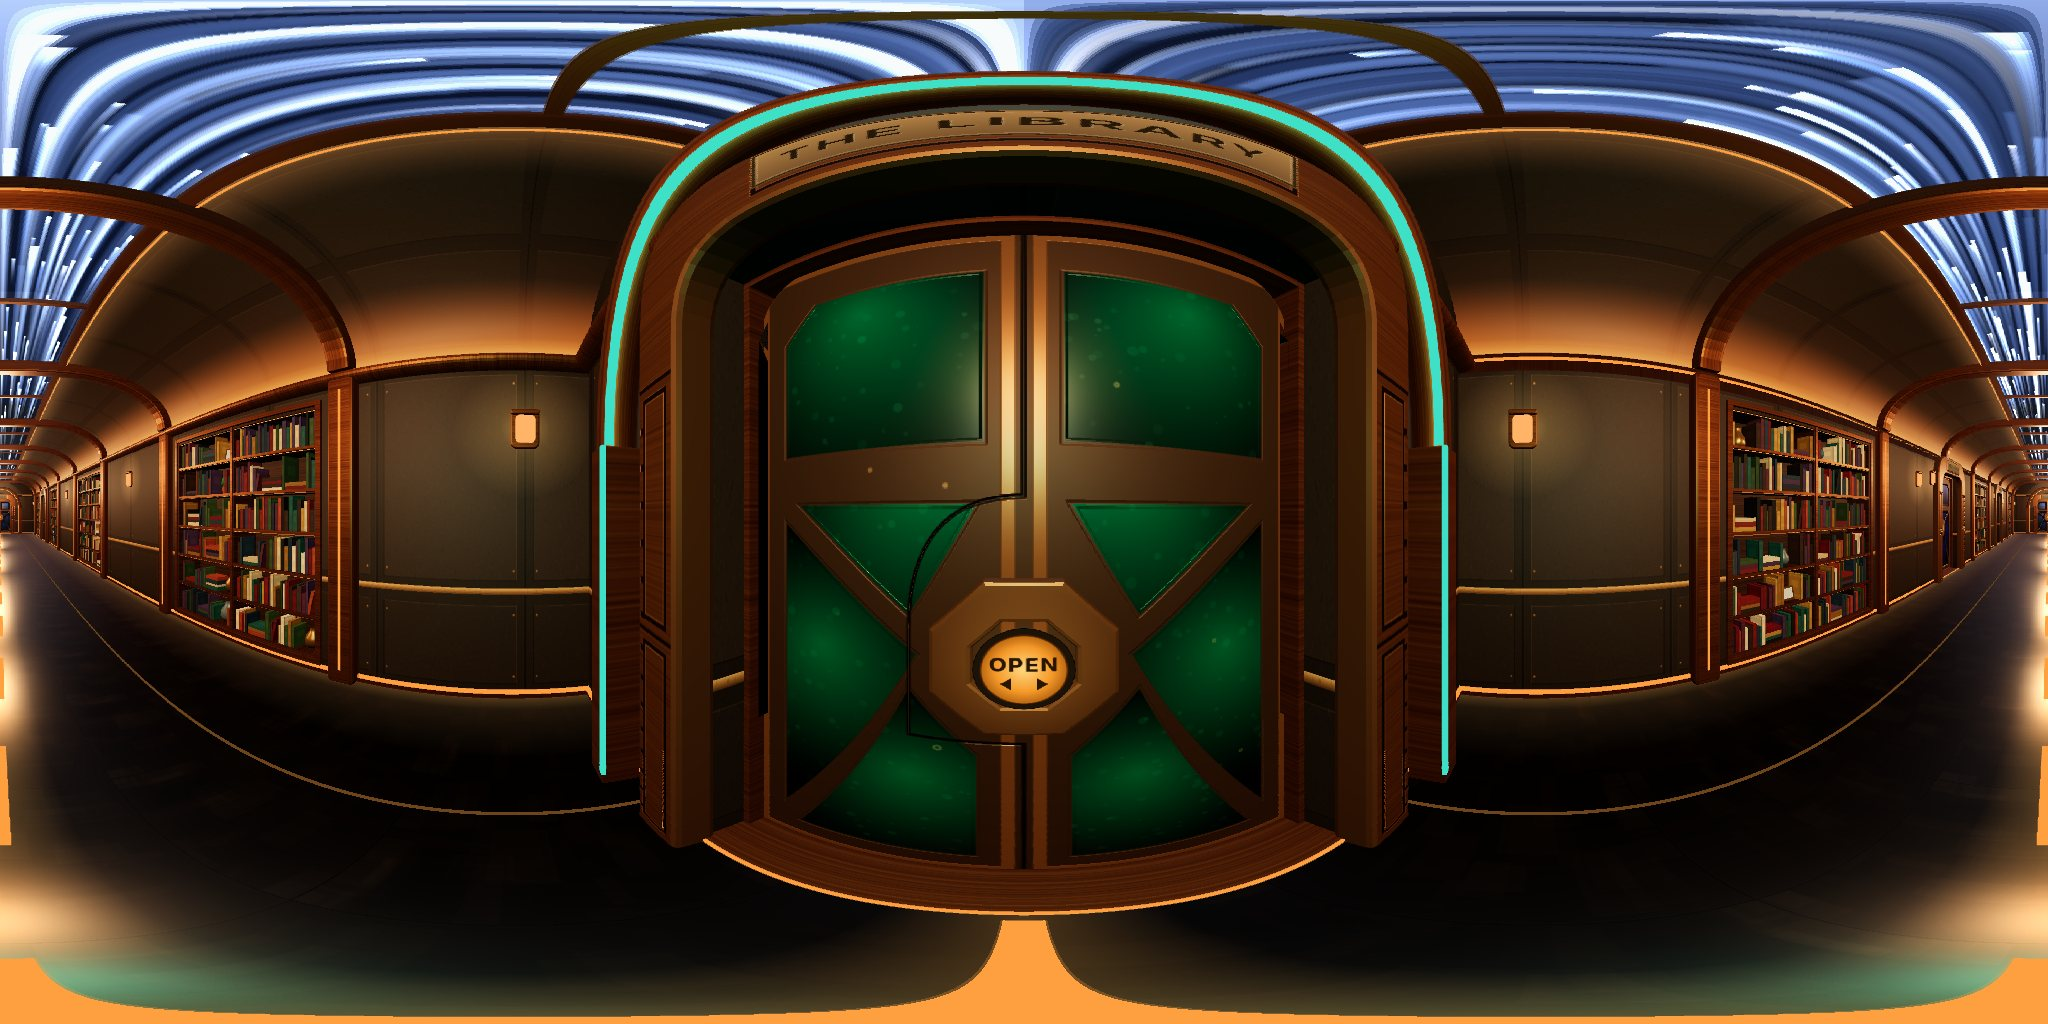
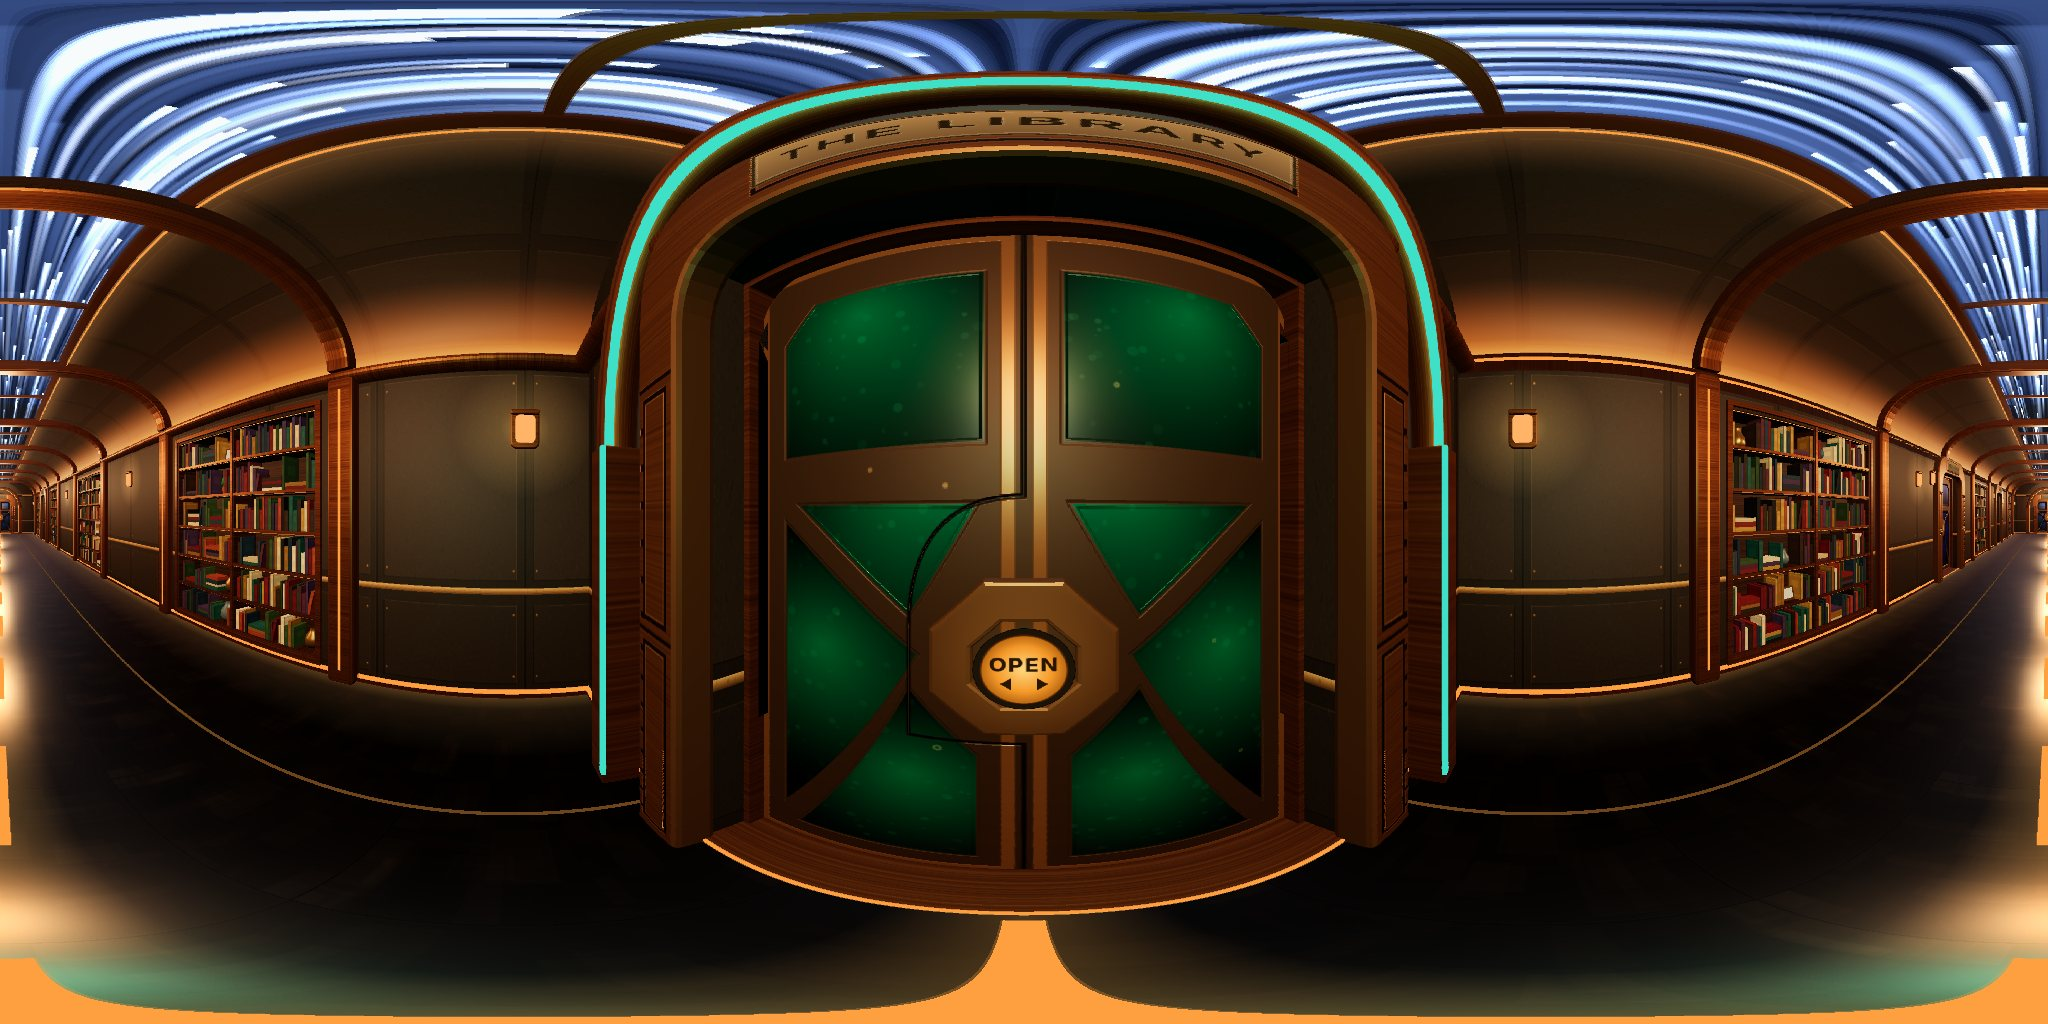
Library walls restyled: walnut panels, bronze ribs and lamps, polished deck, bookcases all round, wing doorways as sealed ship doors
Claude-Session: https://claude.ai/code/session_015swmRW9rk9HZt8JyLRwsXT

Changed region(s): [[0.0, 0.0, 1.0, 0.4375]]

diff --git a/library.html b/library.html
@@ -183,7 +183,7 @@
     <a-torus position="0 4.96 0" rotation="-90 0 0" radius="10.95" radius-tubular="0.07" segments-tubular="128" segments-radial="6"
       material="color: #8c6234; roughness: 0.42; metalness: 0.8"></a-torus>
     <a-torus position="0 0.05 0" rotation="-90 0 0" radius="10.9" radius-tubular="0.08" segments-tubular="128" segments-radial="6"
-      material="color: #1a1712; roughness: 0.6"></a-torus>
+      material="color: #8c6234; roughness: 0.42; metalness: 0.8"></a-torus>
 
     <!-- ======================================================
          BRAIN IN ELECTROGEL (below glass floor)
@@ -341,39 +341,7 @@
          BOOK WINGS — stub doorways
     ====================================================== -->
 
-    <!-- LEFT WING: Sons of Naphtali -->
-    <a-box position="-10.42 1.5 -2" width="0.1" height="3.0" depth="2.5"
-      color="#4a3a28" emissive="#553300" emissive-intensity="0.2" roughness="0.6" metalness="0.3">
-    </a-box>
-    <a-box position="-10.44 1.3 -2" width="0.06" height="2.6" depth="2.0"
-      color="#2a1608" emissive="#aa6600" emissive-intensity="0.55">
-    </a-box>
-    <a-box position="-10.35 2.7 -2" width="0.1" height="0.06" depth="2.0"
-      color="#cc8833" emissive="#cc8833" emissive-intensity="1.5">
-    </a-box>
-    <a-text value="SONS OF NAPHTALI" position="-10.1 2.92 -2"
-      align="center" rotation="0 -90 0" color="#cc8833" width="3.5" letter-spacing="2">
-    </a-text>
-    <a-text value="BOOK I — GENETICS" position="-10.1 2.65 -2"
-      align="center" rotation="0 -90 0" color="#664422" width="2.5">
-    </a-text>
-
-    <!-- RIGHT WING: Haplogroups -->
-    <a-box position="10.42 1.5 -2" width="0.1" height="3.0" depth="2.5"
-      color="#2e3a44" emissive="#003355" emissive-intensity="0.2" roughness="0.6" metalness="0.3">
-    </a-box>
-    <a-box position="10.44 1.3 -2" width="0.06" height="2.6" depth="2.0"
-      color="#08202e" emissive="#0055aa" emissive-intensity="0.6">
-    </a-box>
-    <a-box position="10.35 2.7 -2" width="0.1" height="0.06" depth="2.0"
-      color="#0066cc" emissive="#0066cc" emissive-intensity="1.5">
-    </a-box>
-    <a-text value="HAPLOGROUPS" position="10.1 2.92 -2"
-      align="center" rotation="0 90 0" color="#5599cc" width="3.5" letter-spacing="2">
-    </a-text>
-    <a-text value="BOOK II — DIASPORA" position="10.1 2.65 -2"
-      align="center" rotation="0 90 0" color="#224466" width="2.5">
-    </a-text>
+    <!-- the two wing doorways are shared ship doors (door.js), built in buildWings(); locked until the wings exist -->
 
     <!-- ======================================================
          CORRIDOR EXIT (+Z, entrance side)
@@ -464,7 +432,8 @@
     // BOOKCASES — a row of lit bays around the back arc, between the two wings
     function buildBookcases(L) {
       const root = document.getElementById('bookcases');
-      const centres = [220, 240, 260, 280, 300, 320];
+      // bays all round the room (user, Nov 24), except the entrance (90°) and the two book wings (~191° and ~349°)
+      const centres = [10, 30, 50, 70, 110, 130, 150, 170, 220, 240, 260, 280, 300, 320];
       centres.forEach(deg => {
         const [x, z] = polar(deg, 10.55);
         const bay = el('a-entity', { position: `${x.toFixed(3)} 0 ${z.toFixed(3)}`, rotation: `0 ${faceCentre(deg).toFixed(2)} 0` }, root);
@@ -490,20 +459,48 @@
       });
     }
 
-    // SCONCES — amber wall lamps. Back arc sits between bookcases.
+    // WALL ARCHITECTURE — walnut panels, bevelled bronze ribs between the bays, square amber lamps on the ribs above the
+    // bookcases (same language as the corridor and Bridge). Lights stay where the old sconces were.
     function buildSconces() {
-      const root = document.getElementById('sconces');
-      (MOB ? [230, 310, 60, 120] : [230, 270, 310, 30, 60, 120, 150]).forEach(deg => {
-        const [x, z] = polar(deg, 10.85);
-        const s = el('a-entity', { position: `${x.toFixed(3)} 2.35 ${z.toFixed(3)}`, rotation: `0 ${faceCentre(deg).toFixed(2)} 0` }, root);
-        el('a-box', { position: '0 0 0', width: 0.26, height: 0.8, depth: 0.08, color: '#2a2218', roughness: 0.5, metalness: 0.4 }, s);
-        el('a-cylinder', { position: '0 0.05 0.12', radius: 0.07, height: 0.46,
-          material: 'color: #ffd9a0; emissive: #ffb050; emissiveIntensity: 2.0; shader: standard' }, s);
-        el('a-cone', { position: '0 -0.3 0.12', 'radius-bottom': 0.1, 'radius-top': 0.03, height: 0.16, color: '#3a2c1a', roughness: 0.5, metalness: 0.4 }, s);
-        el('a-sphere', { position: '0 0.05 0.12', radius: 0.26,
-          material: 'color: #ffa43c; emissive: #ff8a20; emissiveIntensity: 0.5; transparent: true; opacity: 0.12; shader: standard' }, s);
-        el('a-light', { type: 'point', position: '0 0.1 0.7', color: '#ffb866', intensity: 1.5, distance: 9, decay: 2 }, s);
+      const root = new THREE.Group(); scene.object3D.add(root);
+      const bz = (function () { const c = document.createElement('canvas'); c.width = c.height = 256; const x = c.getContext('2d'); x.fillStyle = '#8c6234'; x.fillRect(0, 0, 256, 256);
+        for (let i = 0; i < 1400; i++) { const a = Math.random() * 0.18; x.fillStyle = Math.random() < 0.5 ? 'rgba(255,215,150,' + a * 0.5 + ')' : 'rgba(40,20,6,' + a * 0.5 + ')'; x.fillRect(0, Math.random() * 256, 256, 1); }
+        const t = new THREE.CanvasTexture(c); t.colorSpace = THREE.SRGBColorSpace; t.wrapS = t.wrapT = THREE.RepeatWrapping; return t; }());
+      const bronze = new THREE.MeshStandardMaterial({ map: bz, color: 0xd8b58a, roughness: 0.42, metalness: 0.8, emissive: 0x1a0e04, emissiveIntensity: 0.6 });
+      const lampM = new THREE.MeshBasicMaterial({ color: 0xffb468, toneMapped: false }), amber = new THREE.MeshBasicMaterial({ color: 0xffa040, toneMapped: false });
+      function rr(w, h, r) { const x = -w / 2, y = -h / 2, sh = new THREE.Shape(); sh.moveTo(x + r, y); sh.lineTo(x + w - r, y); sh.quadraticCurveTo(x + w, y, x + w, y + r); sh.lineTo(x + w, y + h - r); sh.quadraticCurveTo(x + w, y + h, x + w - r, y + h); sh.lineTo(x + r, y + h); sh.quadraticCurveTo(x, y + h, x, y + h - r); sh.lineTo(x, y + r); sh.quadraticCurveTo(x, y, x + r, y); return sh; }
+      function soft(sh, d, b) { const g = new THREE.ExtrudeGeometry(sh, { depth: d, bevelEnabled: true, bevelThickness: b, bevelSize: b, bevelSegments: 2, curveSegments: 6 }); g.translate(0, 0, -d / 2); return g; }
+      const leg = soft(rr(0.3, 4.86, 0.06), 0.12, 0.035), back = soft(rr(0.22, 0.3, 0.04), 0.02, 0.01), lamp = soft(rr(0.14, 0.2, 0.03), 0.035, 0.01);
+      const dot = (function () { const c = document.createElement('canvas'); c.width = c.height = 64; const x = c.getContext('2d'), g = x.createRadialGradient(32, 32, 0, 32, 32, 32); g.addColorStop(0, 'rgba(255,255,255,1)'); g.addColorStop(0.35, 'rgba(255,255,255,0.4)'); g.addColorStop(1, 'rgba(255,255,255,0)'); x.fillStyle = g; x.fillRect(0, 0, 64, 64); return new THREE.CanvasTexture(c); }());
+      const glowM = new THREE.MeshBasicMaterial({ map: dot, color: 0xff9a3c, transparent: true, opacity: 0.4, blending: THREE.AdditiveBlending, depthWrite: false, toneMapped: false });
+      function onWall(deg, r, y, g, m) { const [x, z] = polar(deg, r), o = new THREE.Mesh(g, m); o.position.set(x, y, z); o.rotation.y = faceCentre(deg) * Math.PI / 180; root.add(o); return o; }
+      [0, 20, 40, 60, 120, 140, 160, 180, 210, 230, 250, 270, 290, 310, 330].forEach(deg => {
+        onWall(deg, 10.9, 2.45, leg, bronze);
+        const a = onWall(deg, 10.86, 2.45, new THREE.BoxGeometry(0.012, 4.5, 0.01), amber);
+        onWall(deg, 10.8, 4.45, back, bronze); onWall(deg, 10.76, 4.44, lamp, lampM); onWall(deg, 10.88, 4.45, new THREE.PlaneGeometry(1.0, 1.0), glowM);
       });
+      (MOB ? [230, 310, 60, 120] : [230, 270, 310, 30, 60, 120, 150]).forEach(deg => {
+        const [x, z] = polar(deg, 9.8); const l = new THREE.PointLight(0xffb866, 1.5 * Math.PI, 9, 2); l.position.set(x, 3.2, z); root.add(l);
+      });
+    }
+
+    function wallTexture() {             // walnut panels, bronze rails — the corridor/Bridge wall, 5 m tall
+      const W = 512, H = 1024, c = document.createElement('canvas'); c.width = W; c.height = H; const x = c.getContext('2d'), Y = m => (1 - m / 5) * H;
+      x.fillStyle = '#2b221c'; x.fillRect(0, 0, W, H);
+      const inset = (y0, y1, col) => { x.fillStyle = col; x.fillRect(26, Y(y1), W - 52, Y(y0) - Y(y1)); x.fillStyle = 'rgba(255,210,150,0.07)'; x.fillRect(26, Y(y1), W - 52, 3); x.fillStyle = 'rgba(0,0,0,0.35)'; x.fillRect(26, Y(y0) - 3, W - 52, 3); };
+      inset(1.06, 4.3, '#372b23'); inset(0.14, 0.86, '#2f251e');
+      x.fillStyle = 'rgba(0,0,0,0.55)'; x.fillRect(0, 0, 3, H);
+      const rail = (m, h) => { const g = x.createLinearGradient(0, Y(m + h), 0, Y(m)); g.addColorStop(0, '#d9a866'); g.addColorStop(0.5, '#9a6c36'); g.addColorStop(1, '#5a3d1e'); x.fillStyle = g; x.fillRect(0, Y(m + h), W, Y(m) - Y(m + h)); };
+      rail(0.95, 0.05); rail(4.42, 0.04);
+      for (let i = 0; i < 9000; i++) { x.fillStyle = Math.random() < 0.5 ? 'rgba(0,0,0,0.06)' : 'rgba(255,220,180,0.025)'; x.fillRect(Math.random() * W, Math.random() * H, 1 + Math.random() * 2, 1 + Math.random() * 8); }
+      const t = new THREE.CanvasTexture(c); t.colorSpace = THREE.SRGBColorSpace; t.wrapS = t.wrapT = THREE.RepeatWrapping; t.repeat.set(53, 1); t.anisotropy = 4; return t;
+    }
+    function deckTexture() {             // polished dark deck plates
+      const c = document.createElement('canvas'); c.width = c.height = 512; const x = c.getContext('2d');
+      x.fillStyle = '#1e1a17'; x.fillRect(0, 0, 512, 512);
+      for (let i = 0; i < 70; i++) { x.fillStyle = 'rgba(' + (Math.random() < 0.5 ? '0,0,0' : '255,230,200') + ',' + (0.015 + Math.random() * 0.025) + ')'; x.fillRect(Math.random() * 512, Math.random() * 512, 40 + Math.random() * 160, 20 + Math.random() * 90); }
+      x.fillStyle = 'rgba(0,0,0,0.65)'; x.fillRect(0, 0, 512, 3); x.fillRect(0, 0, 3, 512);
+      const t = new THREE.CanvasTexture(c); t.colorSpace = THREE.SRGBColorSpace; t.wrapS = t.wrapT = THREE.RepeatWrapping; t.repeat.set(10, 10); return t;
     }
 
 
@@ -607,17 +604,16 @@
       scene.object3D.add(pts);
     }
 
-    // WING FRAMES — brass jambs + lintel around the two book-wing doors
+    // BOOK WINGS — the shared ship door, sealed until the wings are built (Book I left, Book II right)
     function buildWings() {
-      [-1, 1].forEach(sd => {
-        const x = sd * 10.3, acc = '#ffa04a';
-        const g = el('a-entity', { position: `${x} 0 -2`, rotation: `0 ${sd < 0 ? 0 : 0} 0` });
-        scene.appendChild(g);
-        [-1.34, 1.34].forEach(dz => el('a-box', { position: `0 1.6 ${dz}`, width: 0.4, height: 3.2, depth: 0.2, color: '#3a2f22', roughness: 0.5, metalness: 0.35 }, g));
-        el('a-box', { position: '0 3.12 0', width: 0.4, height: 0.24, depth: 2.9, color: '#3a2f22', roughness: 0.5, metalness: 0.35 }, g);
-        [-1.34, 1.34].forEach(dz => el('a-box', { position: `${-sd * 0.21} 1.6 ${dz}`, width: 0.03, height: 3.0, depth: 0.04,
-          material: `color: ${acc}; emissive: ${acc}; emissiveIntensity: 1.6; shader: standard` }, g));
-      });
+      const say = msg => { if (typeof showPrompt === 'function') { showPrompt(msg, '#ffcc66'); setTimeout(hidePrompt, 1800); } };
+      const wings = [
+        WAYFARER.door.create({ sc: scene, frame: { x: -10.42, z: -2, rot: 90 }, name: 'SONS OF NAPHTALI', tint: 0xffb040, depth: 0.45, noPockets: true, locked: 'BOOK I WING — SEALED (COMING SOON)', say: say }),
+        WAYFARER.door.create({ sc: scene, frame: { x: 10.42, z: -2, rot: -90 }, name: 'HAPLOGROUPS', tint: 0x4f8cff, depth: 0.45, noPockets: true, locked: 'BOOK II WING — SEALED (COMING SOON)', say: say })
+      ];
+      const wp = new THREE.Vector3();
+      AFRAME.registerComponent('wf-lib-wings', { tick: function (t, dt) { if (!scene.camera) return; scene.camera.getWorldPosition(wp); wings.forEach(D => D.update(dt, wp)); } });
+      scene.setAttribute('wf-lib-wings', '');
     }
 
     scene.addEventListener('loaded', () => {
@@ -633,20 +629,12 @@
 
       // Curved wall: 18 tiles of 3.84 m x 5 m around a 69 m circumference
       const walls = document.getElementById('lib-walls');
-      walls.setAttribute('material', {
-        side: 'back', src: L.wall.albedo, normalMap: L.wall.normal,
-        repeat: '18 1', normalTextureRepeat: '18 1',
-        color: '#ffffff', roughness: 0.62, metalness: 0.12
-      });
-      setEmissiveMap(walls, L.wall.glow, 1.0, [18, 1]);
+      walls.getObject3D('mesh').material = new THREE.MeshStandardMaterial({ map: wallTexture(), roughness: 0.62, metalness: 0.15, side: THREE.BackSide });
 
       // Deck ring: ring UVs span the whole 22 m disc -> 8 repeats = 2.75 m tiles
       const deck = document.getElementById('deck-ring');
-      deck.setAttribute('material', Object.assign({
-        src: L.floor.albedo, repeat: '8 8',
-        color: '#ffffff', roughness: 0.5, metalness: 0.2
-      }, L.floor.normal ? { normalMap: L.floor.normal, normalTextureRepeat: '8 8' } : {}));
-      setEmissiveMap(deck, L.floor.glow, 0.9, [8, 8]);
+      deck.getObject3D('mesh').material = new THREE.MeshStandardMaterial({ map: deckTexture(), roughness: 0.3, metalness: 0.5, color: 0xa89e92 });
+      [[8.2, 0.025], [10.3, 0.03]].forEach(q => { const t = new THREE.Mesh(new THREE.RingGeometry(q[0] - q[1], q[0] + q[1], 160), new THREE.MeshBasicMaterial({ color: 0xffa040, toneMapped: false })); t.rotation.x = -Math.PI / 2; t.position.y = 0.006; scene.object3D.add(t); });
 
       const ceil = document.getElementById('ceil-ring');
       ceil.setAttribute('material', { src: T.ceilPanel, repeat: '10 10', color: '#5a4434', roughness: 0.8, metalness: 0.15, side: 'double' });

diff --git a/door.js b/door.js
@@ -200,7 +200,7 @@
   // ───────── create one door ─────────
   // opts: sc (a-scene element), parent (Object3D), frame {x,z,rot}, name, tint, depth (frame block depth), other (frame of the
   // other side, in the other page's world), space (proxy of the other side), img (portal photo URL), autoPass, onPass,
-  // startOpen, say(msg), holdMs
+  // startOpen, say(msg), holdMs, locked (message: the button refuses to open)
   function create(o) {
     var renderer = o.sc.renderer; res(renderer);
     var g = new THREE.Group(); g.position.set(o.frame.x, 0, o.frame.z); g.rotation.y = o.frame.rot * Math.PI / 180; (o.parent || o.sc.object3D).add(g);
@@ -208,7 +208,7 @@
     var fr = new THREE.Mesh(soft(frameShape(), depth, 0.025), [R.frame, R.side]); fr.position.z = 0.12 - depth; g.add(fr);
     var nm = new THREE.Mesh(new THREE.PlaneGeometry(0.98, 0.25), new THREE.MeshBasicMaterial({ map: plate(o.name, 600, 152), fog: false, toneMapped: false, color: 0xe8dcc8 }));
     nm.position.set(0, (DOOR_H + FR_TOP) / 2, 0.16); g.add(nm);
-    if (depth > 0.2) {                  // free-standing (room) door: threshold, plus pocket housings the leaves slide into
+    if (depth > 0.2 && !o.noPockets) {  // free-standing (room) door: threshold, plus pocket housings the leaves slide into
       var th = new THREE.Mesh(new THREE.BoxGeometry(DOOR_W, 0.02, depth), R.side); th.position.set(0, 0.01, 0.12 - depth / 2); g.add(th);
       [[-1.1, -1.9], [1.1, 2.2]].forEach(function (q) {
         var w = Math.abs(q[1] - q[0]), pk = new THREE.Mesh(soft(rrectShape(w, 2.62, 0.06), 0.16, 0.02), [R.frame, R.side]);
@@ -252,7 +252,10 @@
     D.open = function (silent) { if (D.target === 1) return; D.target = 1; D.openAt = performance.now(); loadImg(); if (!silent) { beep(880, 0.12, 'triangle'); setTimeout(function () { beep(520, 0.2, 'sine'); }, 90); o.say && o.say('OPENING — ' + o.name); } };
     D.close = function () { if (D.target === 0) return; D.target = 0; beep(520, 0.12, 'triangle'); };
     D.pass = function () { if (D.passed || !o.onPass) return; D.passed = true; o.onPass(); };
-    ent.addEventListener('click', function () { if (D.p > 0.25) return; D.flash = 0.22; face.material.map = R.faces.press; if (D.target === 0) D.open(); else { D.close(); o.say && o.say('CLOSING — ' + o.name); } });
+    ent.addEventListener('click', function () {
+      if (D.p > 0.25) return; D.flash = 0.22; face.material.map = R.faces.press;
+      if (o.locked) { beep(220, 0.25, 'square'); o.say && o.say(o.locked); return; }       // a doorway that doesn't lead anywhere yet
+      if (D.target === 0) D.open(); else { D.close(); o.say && o.say('CLOSING — ' + o.name); } });
     tap.addEventListener('click', function () { if (D.p > 0.85) D.pass(); });
     if (o.startOpen) { D.p = 1; D.target = 1; D.openAt = performance.now(); loadImg(); }
 

diff --git a/CLAUDE.md b/CLAUDE.md
@@ -101,8 +101,10 @@ Rules drawn from them:
   Library dome: fwd +1 (its door faces the bow), arc ±75°, same settings as the corridor. Streaks are DoubleSide
   billboards (seen from below they face away — that once hid them entirely in the corridor).
 - **Library ceiling** restyled Nov 24 to match: glass dome under 12 bevelled bronze ribs + mid ring + glowing crown,
-  big amber light ring at the dome base, amber cove at the wall top, dark ceiling panels. Library WALLS are still the
-  older grey plated industrial look with hazard stripes — not yet matched to the style guide.
+  big amber light ring at the dome base, amber cove at the wall top, dark ceiling panels. Library WALLS restyled Nov 24 too:
+  walnut panels + bronze rails (procedural `wallTexture`), bevelled bronze ribs with lamps, polished dark deck ring,
+  14 bookcase bays all round (not over the entrance or wings). Wing doorways = shared door.js doors with `locked`
+  (button buzzes 'SEALED (COMING SOON)') and `noPockets`. The glass floor/brain/scroll pedestals are unchanged.
 - **Flight Mode** (`minigame.html`) — 3rd-person fly/fight mini-game.
 - **Library** (`library.html`) — pearly veined brain in a cabled electrogel tank, copper room, dome, scroll
   reader. Scrolls hold placeholder text, not the user's Obsidian notes yet.
